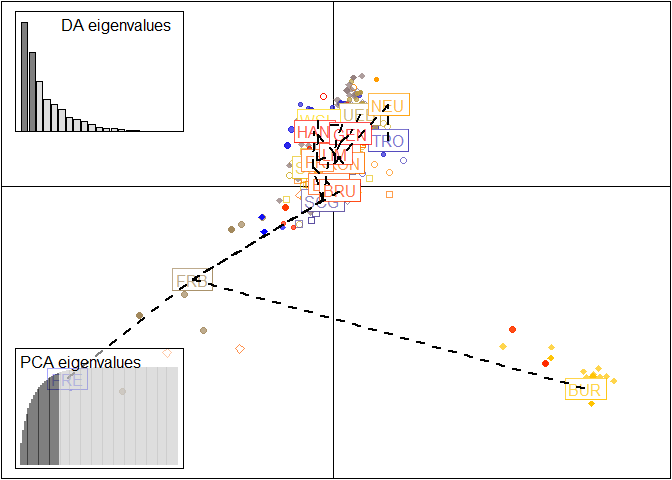
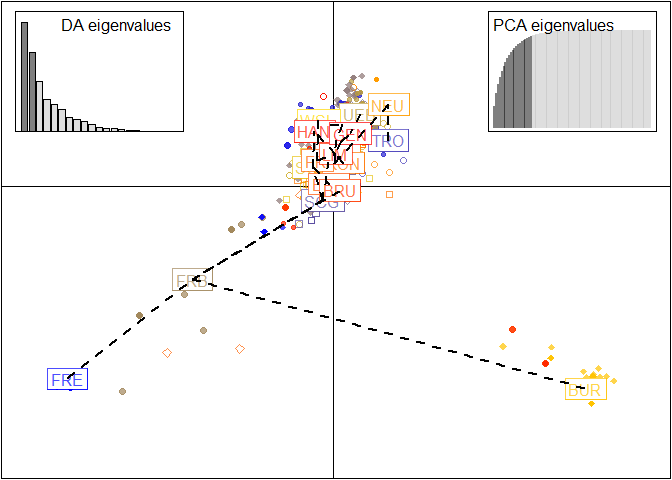
Updates on PCA & DAPC figures

Changed region(s): [[0.0312, 0.7188, 0.2812, 0.9688], [0.7188, 0.0312, 0.9688, 0.2812]]

diff --git a/PCA-and-DAPC.md b/PCA-and-DAPC.md
@@ -174,19 +174,19 @@ temp$pop.score
 ```
 
     ##         FRE         ALD         RIE         TRO         SCG         BOH 
-    ##  0.95700935  0.87096774  0.56451613  0.97058824  1.00000000  0.67500000 
+    ##  0.95607477  0.87096774  0.56451613  0.97058824  1.00000000  0.65750000 
     ##         BOB         FRB         UEB         SCL         SCD         WSL 
-    ## -0.03146853  0.46153846  0.95424837  0.86868687  0.81000000  0.95618375 
+    ## -0.01934732  0.46153846  0.95424837  0.86868687  0.81000000  0.94063604 
     ##         BUR         SCS         NEU         UST         KON         FRI 
-    ##  0.96143498  0.97674419  0.78125000  0.68571429  0.85141509  0.96666667 
+    ##  0.96233184  0.96046512  0.78125000  0.68571429  0.85754717  0.96666667 
     ##         BAR         BRU         LIM         HAN         GEN 
-    ##  0.80000000  0.71910112  0.73055556  0.44615385  0.90000000
+    ##  0.90000000  0.71910112  0.73935185  0.44615385  0.90000000
 
 ``` r
 temp$mean
 ```
 
-    ## [1] 0.7772307
+    ## [1] 0.7806083
 
 ``` r
 dapc2 <- dapc(myData_genind_allMarkersOnly, n.da=100, n.pca=50)
@@ -211,20 +211,20 @@ names(temp)
 temp$pop.score
 ```
 
-    ##        FRE        ALD        RIE        TRO        SCG        BOH        BOB 
-    ##  0.7857143  0.6571429  0.6240741  0.9000000  0.8666667  0.7515152 -0.0840796 
-    ##        FRB        UEB        SCL        SCD        WSL        BUR        SCS 
-    ##  0.0000000  0.9358491  0.8500000  0.7437500  0.8461538  0.8687500  0.7666667 
-    ##        NEU        UST        KON        FRI        BAR        BRU        LIM 
-    ##  0.8428571  0.2608696  0.9450000  0.7500000  0.5000000  0.0000000  0.1875000 
-    ##        HAN        GEN 
-    ##  0.3076923  0.7800000
+    ##         FRE         ALD         RIE         TRO         SCG         BOH 
+    ##  0.78571429  0.66666667  0.62407407  0.90000000  0.85555556  0.75151515 
+    ##         BOB         FRB         UEB         SCL         SCD         WSL 
+    ## -0.08507463 -0.02000000  0.94339623  0.84583333  0.74791667  0.83076923 
+    ##         BUR         SCS         NEU         UST         KON         FRI 
+    ##  0.87500000  0.75555556  0.85714286  0.26086957  0.95000000  0.74000000 
+    ##         BAR         BRU         LIM         HAN         GEN 
+    ##  0.70000000 -0.01666667  0.20833333  0.28461538  0.80000000
 
 ``` r
 temp$mean
 ```
 
-    ## [1] 0.6124401
+    ## [1] 0.6200529
 
 ``` r
 cc.dapc2 <- dapc(cc_myData_genind_allMarkersOnly_SY, n.da=100, n.pca=50)
@@ -249,101 +249,101 @@ temp
     ##  0.0000000  0.0000000 
     ## 
     ## $pop.score$`5`
-    ##         FRE         ALD         RIE         TRO         SCG         BOH 
-    ##  0.64285714  0.66666667  0.55555556  0.40000000  0.22222222  0.60606061 
-    ##         BOB         FRB         UEB         SCL         SCD         WSL 
-    ## -0.16567164  0.00000000  0.90566038  0.78958333  0.52083333  0.84615385 
-    ##         BUR         SCS         NEU         UST         KON         FRI 
-    ##  0.87500000  0.88888889  0.00000000  0.04347826  0.88333333  0.30000000 
-    ##         BAR         BRU         LIM         HAN         GEN 
-    ## -0.20000000  0.00000000  0.12500000  0.00000000  0.00000000 
+    ##          FRE          ALD          RIE          TRO          SCG          BOH 
+    ##  0.642857143  0.666666667  0.555555556  0.400000000  0.188888889  0.603030303 
+    ##          BOB          FRB          UEB          SCL          SCD          WSL 
+    ## -0.164179104  0.000000000  0.905660377  0.791666667  0.520833333  0.846153846 
+    ##          BUR          SCS          NEU          UST          KON          FRI 
+    ##  0.871875000  0.888888889  0.000000000  0.039130435  0.883333333  0.300000000 
+    ##          BAR          BRU          LIM          HAN          GEN 
+    ##  0.000000000  0.000000000  0.125000000 -0.007692308  0.000000000 
     ## 
     ## $pop.score$`10`
     ##         FRE         ALD         RIE         TRO         SCG         BOH 
-    ##  0.77142857  0.64761905  0.62777778  0.90000000  0.86666667  0.75757576 
+    ##  0.78571429  0.66666667  0.62407407  0.88000000  0.86666667  0.74848485 
     ##         BOB         FRB         UEB         SCL         SCD         WSL 
-    ## -0.07661692 -0.07000000  0.94339623  0.83750000  0.73750000  0.84615385 
+    ## -0.08407960  0.00000000  0.94150943  0.85416667  0.74166667  0.84615385 
     ##         BUR         SCS         NEU         UST         KON         FRI 
-    ##  0.87187500  0.77777778  0.85714286  0.26086957  0.95000000  0.75000000 
+    ##  0.87500000  0.75555556  0.85714286  0.24347826  0.94833333  0.75000000 
     ##         BAR         BRU         LIM         HAN         GEN 
-    ##  0.60000000  0.00000000  0.20833333  0.26923077  0.80000000 
+    ##  0.60000000 -0.01666667  0.20833333  0.30769231  0.78000000 
     ## 
     ## $pop.score$`15`
     ##         FRE         ALD         RIE         TRO         SCG         BOH 
-    ##  0.76428571  0.66190476  0.66296296  0.86000000  0.74444444  0.75151515 
+    ##  0.77142857  0.66190476  0.65555556  0.89000000  0.73333333  0.74242424 
     ##         BOB         FRB         UEB         SCL         SCD         WSL 
-    ## -0.02835821  0.25000000  0.95849057  0.75625000  0.80416667  0.79230769 
+    ## -0.05024876  0.21000000  0.95094340  0.76041667  0.81458333  0.82307692 
     ##         BUR         SCS         NEU         UST         KON         FRI 
-    ##  0.85312500  0.77777778  0.85000000  0.67391304  0.87000000  0.76500000 
+    ##  0.85937500  0.74444444  0.85000000  0.68695652  0.88500000  0.78500000 
     ##         BAR         BRU         LIM         HAN         GEN 
-    ##  0.00000000 -0.01666667  0.42083333  0.63846154  0.76000000 
+    ##  0.10000000 -0.01666667  0.44583333  0.65384615  0.76000000 
     ## 
     ## $pop.score$`20`
-    ##         FRE         ALD         RIE         TRO         SCG         BOH 
-    ## 0.592857143 0.766666667 0.735185185 0.920000000 0.711111111 0.727272727 
-    ##         BOB         FRB         UEB         SCL         SCD         WSL 
-    ## 0.009452736 0.360000000 0.924528302 0.708333333 0.845833333 0.792307692 
-    ##         BUR         SCS         NEU         UST         KON         FRI 
-    ## 0.837500000 0.744444444 0.921428571 0.734782609 0.870000000 0.795000000 
-    ##         BAR         BRU         LIM         HAN         GEN 
-    ## 0.000000000 0.205555556 0.316666667 0.930769231 0.620000000 
+    ##        FRE        ALD        RIE        TRO        SCG        BOH        BOB 
+    ## 0.56428571 0.78571429 0.74814815 0.90000000 0.72222222 0.73333333 0.01094527 
+    ##        FRB        UEB        SCL        SCD        WSL        BUR        SCS 
+    ## 0.42000000 0.93207547 0.73958333 0.83333333 0.81538462 0.82812500 0.70000000 
+    ##        NEU        UST        KON        FRI        BAR        BRU        LIM 
+    ## 0.88571429 0.76521739 0.90833333 0.80000000 0.10000000 0.21111111 0.33333333 
+    ##        HAN        GEN 
+    ## 0.90769231 0.62000000 
     ## 
     ## $pop.score$`25`
     ##        FRE        ALD        RIE        TRO        SCG        BOH        BOB 
-    ## 0.58571429 0.80000000 0.66481481 0.90000000 0.61111111 0.71818182 0.09353234 
+    ## 0.57857143 0.83333333 0.67407407 0.90000000 0.66666667 0.70000000 0.08059701 
     ##        FRB        UEB        SCL        SCD        WSL        BUR        SCS 
-    ## 0.79000000 0.90943396 0.71875000 0.81041667 0.71538462 0.81250000 0.77777778 
+    ## 0.76000000 0.90943396 0.70000000 0.83750000 0.71538462 0.80937500 0.77777778 
     ##        NEU        UST        KON        FRI        BAR        BRU        LIM 
-    ## 0.77142857 0.77391304 0.87500000 0.78000000 0.00000000 0.37222222 0.37083333 
+    ## 0.84285714 0.76521739 0.87833333 0.77000000 0.00000000 0.39444444 0.32500000 
     ##        HAN        GEN 
-    ## 0.81538462 0.54000000 
+    ## 0.77692308 0.58000000 
     ## 
     ## $pop.score$`30`
     ##       FRE       ALD       RIE       TRO       SCG       BOH       BOB       FRB 
-    ## 0.5285714 0.8523810 0.6592593 0.7700000 0.7555556 0.7030303 0.1402985 0.7100000 
+    ## 0.4928571 0.8523810 0.6796296 0.8300000 0.6555556 0.6181818 0.1502488 0.7300000 
     ##       UEB       SCL       SCD       WSL       BUR       SCS       NEU       UST 
-    ## 0.8924528 0.6916667 0.7875000 0.6538462 0.7781250 0.7444444 0.7500000 0.7565217 
+    ## 0.8566038 0.6854167 0.7916667 0.7076923 0.7812500 0.6888889 0.7857143 0.7521739 
     ##       KON       FRI       BAR       BRU       LIM       HAN       GEN 
-    ## 0.8550000 0.7600000 0.0000000 0.5222222 0.4500000 0.9076923 0.4800000 
+    ## 0.8566667 0.7350000 0.0000000 0.5000000 0.4583333 0.8615385 0.4800000 
     ## 
     ## $pop.score$`35`
     ##       FRE       ALD       RIE       TRO       SCG       BOH       BOB       FRB 
-    ## 0.5285714 0.8333333 0.6388889 0.8000000 0.7444444 0.6969697 0.2004975 0.5900000 
+    ## 0.4857143 0.8142857 0.6574074 0.8200000 0.7111111 0.6666667 0.1706468 0.6400000 
     ##       UEB       SCL       SCD       WSL       BUR       SCS       NEU       UST 
-    ## 0.8792453 0.6229167 0.7895833 0.6615385 0.7843750 0.6333333 0.7642857 0.6434783 
+    ## 0.8830189 0.6750000 0.7916667 0.7076923 0.8000000 0.6666667 0.7928571 0.6521739 
     ##       KON       FRI       BAR       BRU       LIM       HAN       GEN 
-    ## 0.8700000 0.7100000 0.0000000 0.4888889 0.4250000 0.8538462 0.3200000 
+    ## 0.8566667 0.6950000 0.0000000 0.5277778 0.4416667 0.8384615 0.4600000 
     ## 
     ## $pop.score$`40`
     ##       FRE       ALD       RIE       TRO       SCG       BOH       BOB       FRB 
-    ## 0.6071429 0.5714286 0.6351852 0.8100000 0.5888889 0.6787879 0.2577114 0.5200000 
+    ## 0.6142857 0.6714286 0.6222222 0.7800000 0.5555556 0.6424242 0.2497512 0.5500000 
     ##       UEB       SCL       SCD       WSL       BUR       SCS       NEU       UST 
-    ## 0.8622642 0.6729167 0.7937500 0.6846154 0.7687500 0.5222222 0.7642857 0.6260870 
+    ## 0.8528302 0.6958333 0.8041667 0.6384615 0.7781250 0.5111111 0.7142857 0.6565217 
     ##       KON       FRI       BAR       BRU       LIM       HAN       GEN 
-    ## 0.8550000 0.5750000 0.0000000 0.5055556 0.4333333 0.7846154 0.2600000 
+    ## 0.8066667 0.6050000 0.0000000 0.4888889 0.4500000 0.7692308 0.4200000 
     ## 
     ## $pop.score$`45`
     ##       FRE       ALD       RIE       TRO       SCG       BOH       BOB       FRB 
-    ## 0.6928571 0.4714286 0.6574074 0.7600000 0.5888889 0.5969697 0.2368159 0.4900000 
+    ## 0.7071429 0.5047619 0.6407407 0.8400000 0.6000000 0.6545455 0.2318408 0.5600000 
     ##       UEB       SCL       SCD       WSL       BUR       SCS       NEU       UST 
-    ## 0.8528302 0.6854167 0.7354167 0.6153846 0.7843750 0.4888889 0.6142857 0.6347826 
+    ## 0.8226415 0.6833333 0.7979167 0.5461538 0.7781250 0.4333333 0.8000000 0.6304348 
     ##       KON       FRI       BAR       BRU       LIM       HAN       GEN 
-    ## 0.8283333 0.5800000 0.0000000 0.4888889 0.4291667 0.5153846 0.5800000 
+    ## 0.8450000 0.6550000 0.0000000 0.4722222 0.4083333 0.5461538 0.5600000 
     ## 
     ## $pop.score$`50`
     ##       FRE       ALD       RIE       TRO       SCG       BOH       BOB       FRB 
-    ## 0.6428571 0.4571429 0.5870370 0.6400000 0.6000000 0.6151515 0.2990050 0.5400000 
+    ## 0.6428571 0.4333333 0.6092593 0.6800000 0.6444444 0.6060606 0.2835821 0.4800000 
     ##       UEB       SCL       SCD       WSL       BUR       SCS       NEU       UST 
-    ## 0.8358491 0.6875000 0.7645833 0.6000000 0.7312500 0.4444444 0.7285714 0.6695652 
+    ## 0.8433962 0.7062500 0.7666667 0.6846154 0.7531250 0.4222222 0.6500000 0.6043478 
     ##       KON       FRI       BAR       BRU       LIM       HAN       GEN 
-    ## 0.8216667 0.6250000 0.0000000 0.4555556 0.3833333 0.5000000 0.5400000 
+    ## 0.8283333 0.6300000 0.0000000 0.4722222 0.4000000 0.5538462 0.6000000 
     ## 
     ## 
     ## $mean
     ##          1          5         10         15         20         25         30 
-    ## 0.05516256 0.38720095 0.61453175 0.63349625 0.65520414 0.66114779 0.65863336 
+    ## 0.05516256 0.39381170 0.61651707 0.63987856 0.66367620 0.66415171 0.64999125 
     ##         35         40         45         50 
-    ## 0.62953028 0.59902349 0.57945746 0.57254402 
+    ## 0.64149914 0.60333866 0.59642085 0.57802443 
     ## 
     ## $pred
     ## $pred$x
@@ -351,22 +351,22 @@ temp
     ## [26] 26 27 28 29 30 31 32 33 34 35 36 37 38 39 40 41 42 43 44 45 46 47 48 49 50
     ## 
     ## $pred$y
-    ##  [1] 0.05516256 0.14408033 0.23063859 0.31246843 0.38720095 0.45281156
-    ##  [7] 0.50865294 0.55442209 0.58981603 0.61453175 0.62879558 0.63495107
-    ## [13] 0.63587110 0.63442853 0.63349625 0.63529244 0.63941656 0.64481336
-    ## [19] 0.65042764 0.65520414 0.65834014 0.66004282 0.66077187 0.66098696
-    ## [25] 0.66114779 0.66156528 0.66195539 0.66188531 0.66092223 0.65863336
-    ## [31] 0.65472491 0.64945912 0.64323725 0.63646055 0.62953028 0.62278692
-    ## [37] 0.61632791 0.61018990 0.60440954 0.59902349 0.59406974 0.58959161
-    ## [43] 0.58563375 0.58224082 0.57945746 0.57729870 0.57566107 0.57441148
-    ## [49] 0.57341683 0.57254402
+    ##  [1] 0.05516256 0.14642393 0.23505112 0.31839632 0.39381170 0.45910743
+    ##  [7] 0.51392568 0.55836660 0.59253034 0.61651707 0.63084755 0.63772505
+    ## [13] 0.63977346 0.63961667 0.63987856 0.64257799 0.64731374 0.65307953
+    ## [19] 0.65886910 0.66367620 0.66670572 0.66800727 0.66784161 0.66646950
+    ## [25] 0.66415171 0.66116890 0.65788131 0.65466908 0.65191235 0.64999125
+    ## [31] 0.64908812 0.64859406 0.64770235 0.64560628 0.64149914 0.63490043
+    ## [37] 0.62663448 0.61785184 0.60970305 0.60333866 0.59957216 0.59786886
+    ## [43] 0.59735703 0.59716494 0.59642085 0.59444596 0.59133310 0.58736805
+    ## [49] 0.58283657 0.57802443
     ## 
     ## 
     ## $best
-    ## [1] 27
+    ## [1] 22
 
 ``` r
-#optimal score is 23 PCAs
+#optimal score is 30 PCAs and increasing with increasing number of runs
 ```
 
 ``` r
@@ -427,7 +427,7 @@ row.lab=paste("ori", 1:6))
 
 # Route 2: corrected AllMarkersOnly
 setPop(cc_myData_genind_allMarkersOnly_SY) <- ~Pop
-cc_grp <- find.clusters(cc_myData_genind_allMarkersOnly_SY, max.n.clust=6, max.n.pca=40, n.pca=23)
+cc_grp <- find.clusters(cc_myData_genind_allMarkersOnly_SY, max.n.clust=6, max.n.pca=40, n.pca=26)
 ```
 
 ![](PCA-and-DAPC_files/figure-gfm/dapc%20define%20clusters-3.png)<!-- -->
@@ -493,10 +493,19 @@ Such individuals are referred to as supplementary individuals.
 #uncorrected AllMarkersOnly, only visualising the DAPC only preset clusters
 setPop(myData_genind_allMarkersOnly) <- ~Pop
 dapc.allMarkers <- dapc(myData_genind_allMarkersOnly,var.contrib = TRUE, scale = FALSE, n.pca = 21, n.da = nPop(myData_genind_allMarkersOnly) - 1)
-scatter(dapc.allMarkers, cell = 0, pch = 18:23, cstar = 0, mstree = TRUE, lwd = 2, lty = 2, scree.pca=TRUE,posi.pca="bottomleft", scree.da=TRUE, posi.da="top")
+scatter(dapc.allMarkers, cell = 0, pch = 18:23, cstar = 0, mstree = TRUE, lwd = 2, lty = 2, scree.pca=TRUE,posi.pca="topright", scree.da=TRUE, posi.da="top")
 ```
 
 ![](PCA-and-DAPC_files/figure-gfm/dapc-1.png)<!-- -->
+
+``` r
+# corrected AllMarkersOnly without presetting clusters
+setPop(cc_myData_genind_allMarkersOnly_SY) <- ~Pop
+cc.dapc.allMarkers <- dapc(cc_myData_genind_allMarkersOnly_SY,var.contrib = TRUE, scale = FALSE, n.pca = 21, n.da = nPop(cc_myData_genind_allMarkersOnly_SY) - 1)
+scatter(cc.dapc.allMarkers, cell = 0, pch = 18:23, cstar = 0, mstree = TRUE, lwd = 2, lty = 2, scree.pca=TRUE,posi.pca="topright", scree.da=TRUE, posi.da="top")
+```
+
+![](PCA-and-DAPC_files/figure-gfm/dapc-2.png)<!-- -->
 
 ``` r
 #clonecorrected  AllMarkersOnly
